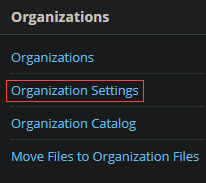
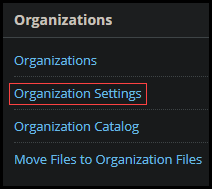
added borders to screenshots

Changed region(s): [[0.0, 0.0, 1.0, 1.0], [0.0583, 0.8197, 0.9612, 0.9016]]

diff --git a/lod/blackboard-lti-initialization.md b/lod/blackboard-lti-initialization.md
@@ -13,9 +13,6 @@ When configuring a new instance of Blackboard or using an instance of Blackboard
   - [Organization Settings](#organization-settings)
   - [LTI Tool Providers](#lti-tool-providers)
 
-<small><i><a href='http://ecotrust-canada.github.io/markdown-toc/'>Table of contents generated with markdown-toc</a></i></small>
-
-
  ## Configuration
 
 To configure your Blackboard instance for LTI use: 
